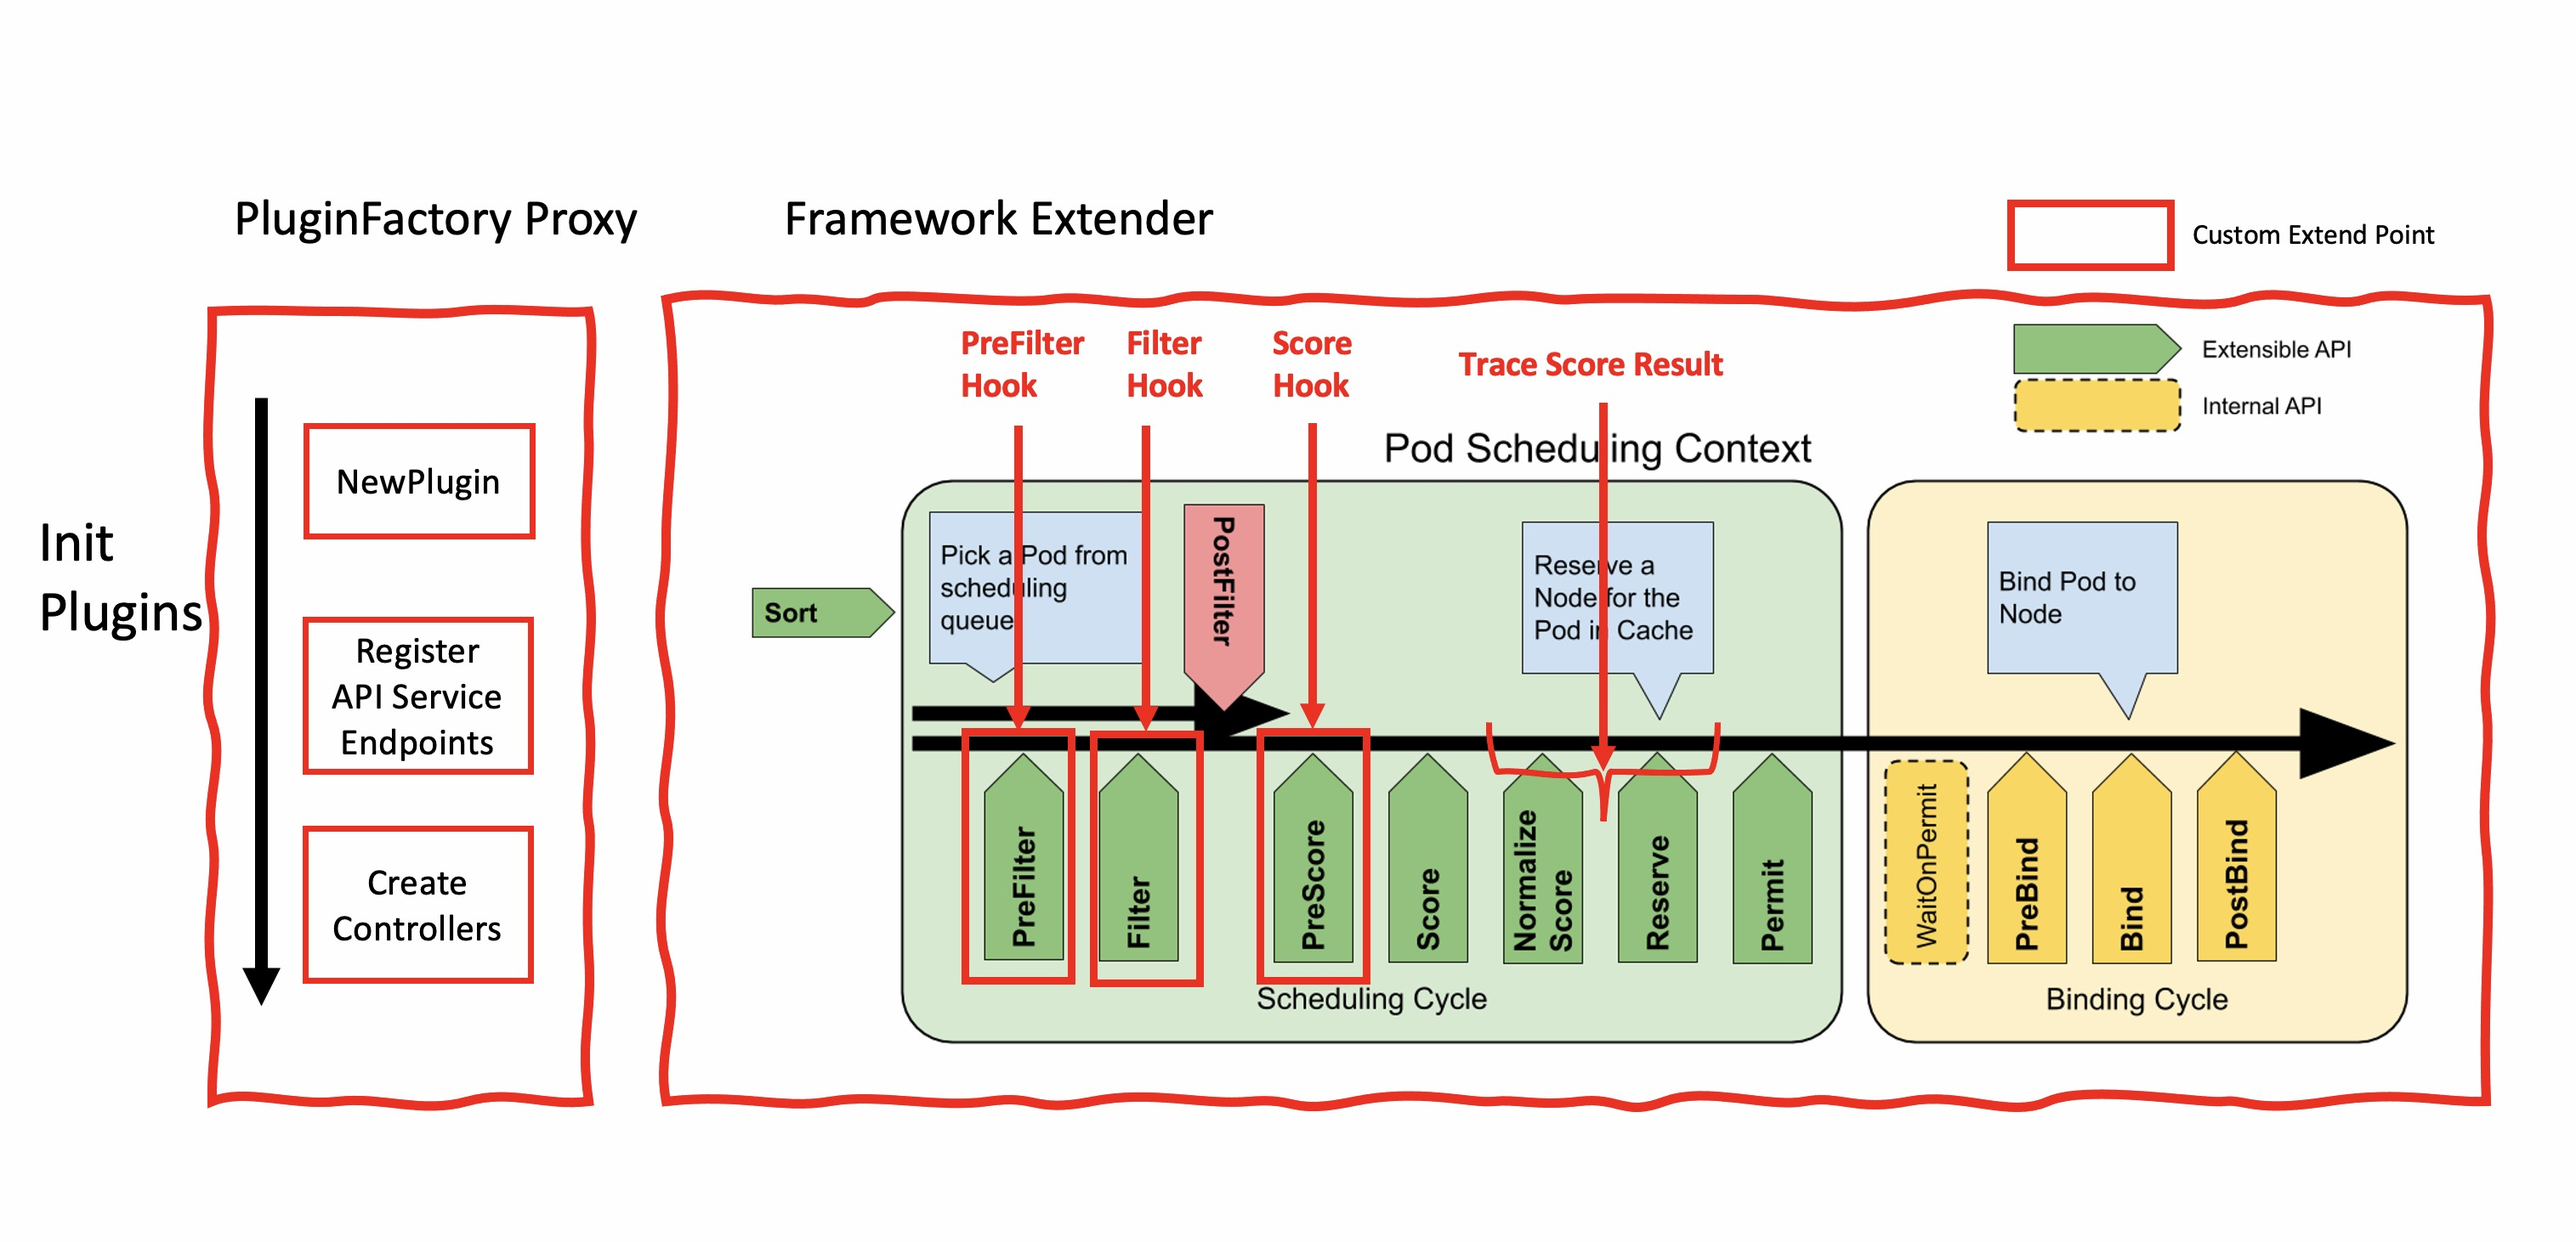
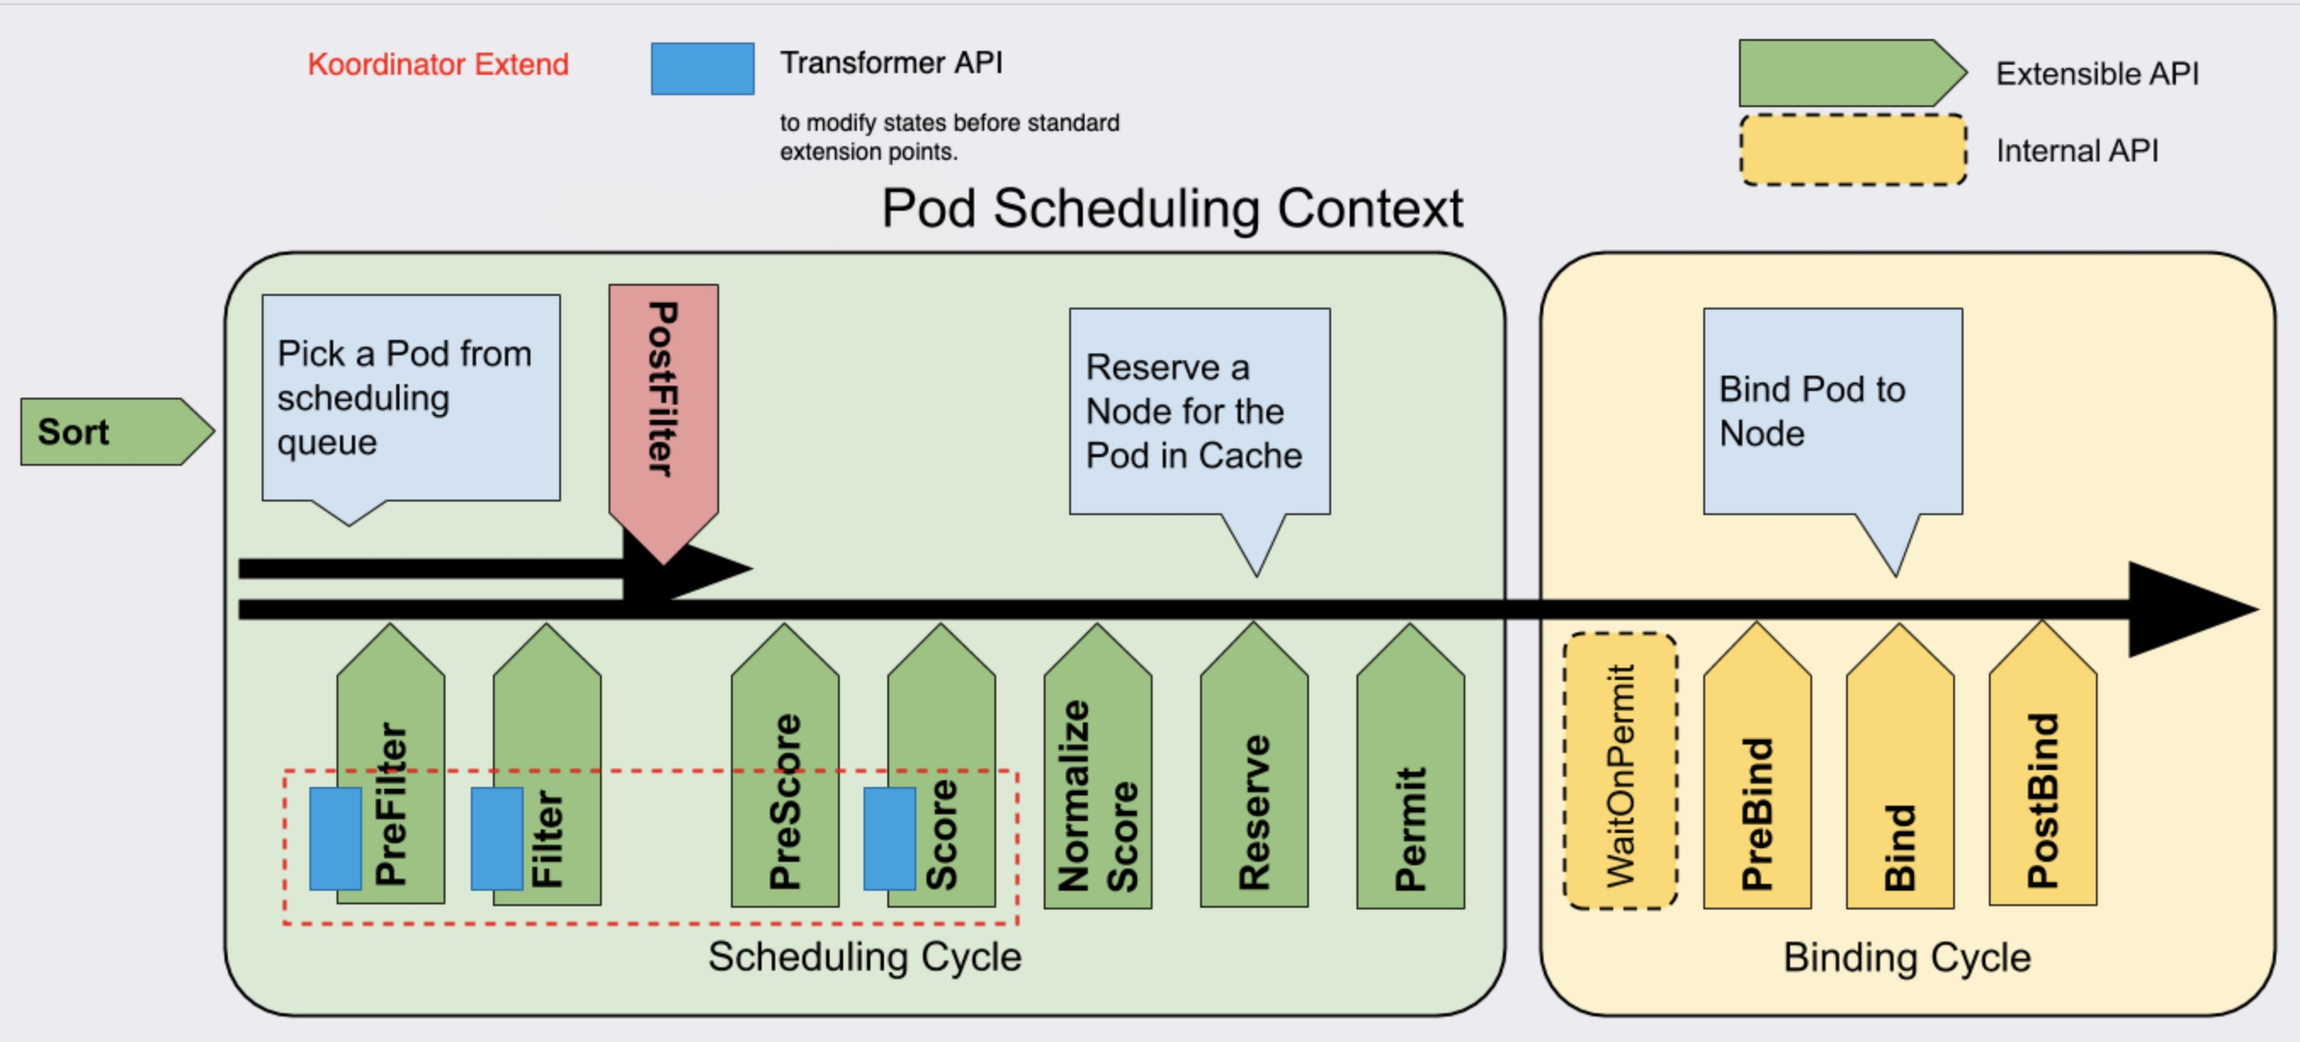
proposal: update Enhanced Scheduler Extension

diff --git a/docs/proposals/scheduling/20220513-enhanced-scheduler-extension.md b/docs/proposals/scheduling/20220513-enhanced-scheduler-extension.md
@@ -7,7 +7,7 @@ reviewers:
   - "@saintube"
   - "@buptcozy"
 creation-date: 2022-05-13
-last-updated: 2022-10-25
+last-updated: 2022-11-11
 status: provisional
 ---
 
@@ -227,7 +227,7 @@ The following are the specific scoring results:
 | 3 | default/curlimage-545745d8f8-rngp7 | cn-hangzhou.10.0.4.18 | 487 | 0 | 0 | 15 | 0 | 0 | 90 | 82 | 200 | 0 | 100 |
 
 
-#### Support Reservation Scheduling
+#### Custom Hook Extend Points to Support Reservation Scheduling
 
 If we want to schedule the Reservation CRD object in the form of Pod, we need to solve several problems:
 
@@ -236,7 +236,11 @@ If we want to schedule the Reservation CRD object in the form of Pod, we need to
 
 To solve these problems, we define the `Hook` interface. The plugin can be implemented on demand, and the Pod or NodeInfo can be modified when the PreFilter/Filter is executed. Similar to the custom implementation method `RunScorePlugins` mentioned above, we can customize the implementation methods `RunPreFilterPlugins` and `RunFilterPluginsWithNominatedPods`. Before executing the real extension point logic, first execute the `Hook` interface and modify the Pod and NodeInfo.
 
+If necessary, you can modify the Pod or Node before executing the Score Extension Point by implementing ScorePhaseHook.
+
 Considering that there may be multiple different Hooks to modify the Pod or NodeInfo requirements, when the Hook is called, the Hook will be called cyclically, and the modification result of the previous Hook and the input of the next Hook will continue to be executed.
+
+Here are some additional explanations for the scenarios in which these new extension points should be used. If you can complete the scheduling function through the extension points such as Filter/Score provided by the K8s Scheduling Framework without modifying the incoming NodeInfo/Pod and other objects, you do not need to use these new extension points.
 
 ```go
 type SchedulingPhaseHook interface {
@@ -253,6 +257,11 @@ type FilterPhaseHook interface {
 	FilterHook(handle ExtendedHandle, cycleState *framework.CycleState, pod *corev1.Pod, nodeInfo *framework.NodeInfo) (*corev1.Pod, *framework.NodeInfo, bool)
 }
 
+type ScorePhaseHook interface {
+	SchedulingPhaseHook
+	ScoreHook(handle ExtendedHandle, cycleState *framework.CycleState, pod *corev1.Pod, nodes []*corev1.Node) (*corev1.Pod, []*corev1.Node, bool)
+}
+
 ```
 
 ## Alternatives
@@ -266,3 +275,4 @@ We can change the order of Filter plugins to support Reservation Scheduling to u
 - 2022-05-13: Initial proposal
 - 2022-10-25: Complete proposal
 - 2022-11-10: Add Overview and ControllerProvider
+- 2022-11-11: Update overview image and add comment to Hook
